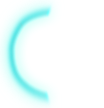
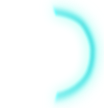
shield follows and flag beginnings
shield follows player, and disappears when weapon is shot. flags may now be sprites and have 3 colors: unclaimed, red, and blue team.

diff --git a/static/js/scripts.js b/static/js/scripts.js
@@ -4,23 +4,6 @@
 * ---------
 */	
 
-// // create the canvas tag with JS
-// var canvas = document.createElement('canvas');
-// // create a context for JS to play inside of
-// var context = canvas.getContext('2d');
-// // give canvas some substance
-// canvas.width = 512;
-// canvas.height = 480;
-// // console.dir(canvas)
-// // Put the canvas in the DOM
-// document.body.appendChild(canvas);
-
-// function draw(){
-// 	requestAnimationFrame(draw);
-// }
-
-// draw();
-
 /*
 from - http://phaser.io/tutorials/making-your-first-phaser-game
 The first two parameters are the width and the height of the canvas element
@@ -65,10 +48,10 @@ function create() {
     weapon.bulletLifespan = 2000;
 
     //  The speed at which the bullet is fired
-    weapon.bulletSpeed = 600;
+    weapon.bulletSpeed = 700;
 
     //  Speed-up the rate of fire, allowing them to shoot 1 bullet every 60ms
-    weapon.fireRate = 100;
+    weapon.fireRate = 300;
 
     //  Wrap bullets around the world bounds to the opposite side
     // weapon.bulletWorldWrap = true;
@@ -79,12 +62,15 @@ function create() {
     circle = game.add.sprite(game.world.centerX, game.world.centerY, circle);
 
     sprite.anchor.set(0.5);
+    shield.anchor.set(0.5);
 
     game.physics.arcade.enable(sprite);
-    game.physics.arcade.enable(circle);
+    game.physics.arcade.enable(shield);
 
     sprite.body.drag.set(70);
     sprite.body.maxVelocity.set(200);
+    shield.body.drag.set(70);
+    shield.body.maxVelocity.set(200);
 
     //  Tell the Weapon to track the 'player' Sprite
     //  With no offsets from the position
@@ -104,10 +90,11 @@ function create() {
 
     // sprite = game.add.sprite(400, 300, 'arrow');
     sprite.anchor.setTo(0.5, 0.5);
+    shield.anchor.setTo(0.45, 0.5);
 
     //  Enable Arcade Physics for the sprite
     game.physics.enable(sprite, Phaser.Physics.ARCADE);
-    game.physics.enable(circle, Phaser.Physics.ARCADE);
+    game.physics.enable(shield, Phaser.Physics.ARCADE);
 
     //  Tell it we don't want physics to manage the rotation
     // sprite.body.allowRotation = false;
@@ -118,7 +105,6 @@ function create() {
     game.physics.startSystem(Phaser.Physics.P2JS);
     
     game.physics.p2.enable(sprite);
-    game.physics.p2.enable(circle);
     cursors = game.input.keyboard.createCursorKeys();
     game.camera.follow(sprite);
 
@@ -129,34 +115,45 @@ function update() {
     if (cursors.up.isDown)
     {
         game.physics.arcade.accelerationFromRotation(sprite.rotation, 300, sprite.body.acceleration);
+        game.physics.arcade.accelerationFromRotation(shield.rotation, 300, shield.body.acceleration);
     }
     else
     {
         sprite.body.acceleration.set(0);
+        shield.body.acceleration.set(0);
     }
 
     if (cursors.left.isDown)
     {
         sprite.body.angularVelocity = -300;
+        shield.body.angularVelocity = -300;
     }
     else if (cursors.right.isDown)
     {
         sprite.body.angularVelocity = 300;
+        shield.body.angularVelocity = 300;
     }
     else
     {
         sprite.body.angularVelocity = 0;
+        shield.body.angularVelocity = 0;
     }
 
     if (fireButton.isDown)
     {
         weapon.fire();
+        shield.visible = false;
+    }
+    else
+    {
+        shield.visible = true;
     }
 
     game.world.wrap(sprite, 16);
 
     // sprite.rotation = game.physics.arcade.angleToPointer(sprite);
     sprite.rotation = game.physics.arcade.moveToPointer(sprite, 60, game.input.activePointer, 500);
+    shield.rotation = game.physics.arcade.moveToPointer(shield, 60, game.input.activePointer, 500);
 
 }
 

diff --git a/index.html b/index.html
@@ -13,7 +13,7 @@
 	<script src="https://code.angularjs.org/1.5.8/angular-route.min.js"></script>
 	<script src="static/js/phaser.js"></script>
 
-	<script src='static/js/scripts.js'></script>
+	
 	<script src="static/js/mainController.js"></script>
 	
 

diff --git a/views/canvas.html b/views/canvas.html
@@ -4,3 +4,4 @@
 </canvas>	 -->
 
 <div id="canvas"></div>
+<script src='static/js/scripts.js'></script>
